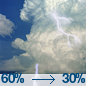
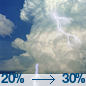
wire: 2026-09-05 RSA-0905-WIRE-48 + first sports/weather siblings

Changed region(s): [[0.0, 0.8605, 0.1163, 0.9767]]

diff --git a/wire.html b/wire.html
@@ -12,8 +12,8 @@
   <meta property="og:description" content="National, global, and tech briefing for citizens and pastors. Civic week lives on RESOLUTE Local. Sports and weather have their own pages.">
   <meta property="og:type" content="website">
   <meta property="og:url" content="https://usmcmin.com/wire.html">
-  <meta property="og:image" content="https://usmcmin.com/assets/og/wire-dvids-9904942-lincoln-thailand-1200x630.jpg">
-  <meta name="twitter:image" content="https://usmcmin.com/assets/og/wire-dvids-9904942-lincoln-thailand-1200x630.jpg">
+  <meta property="og:image" content="https://usmcmin.com/assets/og/wire-dvids-7275187-patriot-palau-1200x630.jpg">
+  <meta name="twitter:image" content="https://usmcmin.com/assets/og/wire-dvids-7275187-patriot-palau-1200x630.jpg">
   <meta property="og:image:width" content="1200">
   <meta property="og:image:height" content="630">
   <meta name="twitter:image:width" content="1200">
@@ -129,18 +129,18 @@
     <header class="mast" id="top">
       <h1>RESOLUTE <em>Wire</em></h1>
       <p class="dek">National, global, and tech briefing for citizens and pastors. Civic week lives on RESOLUTE Local. Sports and weather have their own pages.</p>
-      <div class="meta">Friday, September 4, 2026 · PM edition · Rush Sullivan · RSA-0904-WIRE-47</div>
+      <div class="meta">Saturday, September 5, 2026 · AM edition · Rush Sullivan · RSA-0905-WIRE-48</div>
     </header>
     <article class="hero">
       <div class="hero-media">
-        <img src="assets/wire/dvids-9904942-lincoln-thailand-1000w.jpg" alt="">
-        <div class="hero-credit">U.S. Navy photo by Mass Communication Specialist Seaman Gage Thomas · DVIDS 9904942 · Public domain · USS Abraham Lincoln (CVN 72) arrives in Laem Chabang, Thailand, Sept. 2, 2026.</div>
+        <img src="assets/wire/dvids-7275187-patriot-palau-1000w.jpg" alt="">
+        <div class="hero-credit">U.S. Army photo by Maj. Nicholas Chopp · DVIDS 7275187 · Public domain · A PAC-2 Patriot interceptor launches during a live-fire exercise in Palau, June 15, 2022.</div>
       </div>
       <div class="hero-body">
-        <span class="chip">USNI News</span>
-        <h2><a href="https://news.usni.org/2026/09/04/usni-news-western-pacific-pulse-sept-4-2026" target="_blank" rel="noopener">USNI: Abraham Lincoln makes its first full port stop of the deployment, in Thailand</a></h2>
-        <p class="insight">USNI News Western Pacific Pulse, Friday: USS Abraham Lincoln (CVN-72) pulled into Laem Chabang, Thailand, on Wednesday, its first full port visit since the deployment began. Navy still of the arrival is dated Sept. 2.</p>
-        <div class="src">USNI News · <a href="https://news.usni.org/2026/09/04/usni-news-western-pacific-pulse-sept-4-2026" target="_blank" rel="noopener">Read source →</a></div>
+        <span class="chip">Defense News</span>
+        <h2><a href="https://www.defensenews.com/news/pentagon-congress/2026/09/05/ukraine-asks-eu-to-fund-first-pac-3-patriot-buy/" target="_blank" rel="noopener">Defense News: Ukraine asks the EU to fund its first PAC-3 Patriot buy</a></h2>
+        <p class="insight">Defense News, Saturday: Kyiv asked to tap a €90 billion EU support loan for PAC-3 interceptors for Patriot batteries — the first formal request to use that loan for the U.S.-made missiles. Because PAC-3s are built in the United States, the purchase needs an exemption from the loan’s non-EU content cap. Commission President Ursula von der Leyen said the review was moving and that EU representatives were due to decide Monday.</p>
+        <div class="src">Defense News · <a href="https://www.defensenews.com/news/pentagon-congress/2026/09/05/ukraine-asks-eu-to-fund-first-pac-3-patriot-buy/" target="_blank" rel="noopener">Read source →</a></div>
       </div>
     </article>
     <section class="rails" aria-label="Channel rails">
@@ -156,16 +156,16 @@
         </article>
         <article class="item no-media">
           <div>
-            <h4><a href="https://www.defensenews.com/global/europe/2026/09/04/us-to-seek-back-payment-from-europe-for-ukraine-aid-trump-says/" target="_blank" rel="noopener">Defense News: Trump says Europe should repay U.S. Ukraine aid</a></h4>
-            <p>Defense News, Friday: President Trump said Thursday he would ask European nations to pay back the United States for military aid and munitions previously sent to Ukraine. No repayment schedule has been published.</p>
+            <h4><a href="https://www.defensenews.com/news/your-military/2026/09/04/us-air-force-speeds-reaper-successor-timeline-after-iran-losses/" target="_blank" rel="noopener">Defense News: Air Force speeds a cheaper Reaper successor after Iran losses</a></h4>
+            <p>Defense News, Friday: Lt. Gen. Christopher Niemi said Sept. 3 the Air Force is accelerating a cheaper, more expendable follow-on to the MQ-9A Reaper after combat losses. Officials did not announce a new fielding date. The Massed Modular Aircraft competition is the named path; a fully missionized aircraft is still unpriced.</p>
             <div class="who">Defense News</div>
           </div>
           
         </article>
         <article class="item no-media">
           <div>
-            <h4><a href="https://news.usni.org/2026/09/03/video-navy-marines-interdict-second-suspected-narco-refueling-station" target="_blank" rel="noopener">USNI: San Antonio sailors and Marines destroy a second suspected narco refueler</a></h4>
-            <p>USNI News, Thursday: sailors and Marines from USS San Antonio (LPD-17) interdicted and destroyed a second suspected narco logistics vessel in the Eastern Pacific on Wednesday, working with Ecuador as part of Joint Task Force Western Hemisphere.</p>
+            <h4><a href="https://news.usni.org/2026/09/03/chinese-destroyer-involved-in-fatal-collision-returns-to-south-china-sea" target="_blank" rel="noopener">USNI: Chinese destroyer in last summer’s fatal Scarborough collision is back at sea</a></h4>
+            <p>USNI News, Thursday: Type 052D destroyer Guilin (164), involved in a fatal collision with a China Coast Guard cutter at Scarborough Shoal last summer, has returned to frontline service in the South China Sea, according to recent military reports.</p>
             <div class="who">USNI News</div>
           </div>
           
@@ -184,7 +184,7 @@
         <article class="item no-media">
           <div>
             <h4><a href="https://apnews.com/article/justice-department-new-york-times-openai-copyright-dbb22e8e02c660ee5a8644915dec39a4" target="_blank" rel="noopener">AP: Justice Department backs OpenAI against the New York Times on training data</a></h4>
-            <p>Associated Press: the Trump administration told a court it backs OpenAI’s argument that training on news articles is fair use in the Times copyright case. A brief is a legal position, not a ruling.</p>
+            <p>Associated Press: the Trump administration told a court it backs OpenAI’s argument that training on news articles is fair use in the Times copyright case. The brief is a legal position, not a ruling.</p>
             <div class="who">Associated Press</div>
           </div>
           
@@ -194,16 +194,16 @@
         <h3>Culture</h3>
         <article class="item no-media">
           <div>
-            <h4><a href="https://lawliberty.org/the-benefits-of-bad-publicity/" target="_blank" rel="noopener">Law &amp; Liberty: bad publicity can find the quiet neighbors</a></h4>
-            <p>Law &amp; Liberty, Friday: “The Benefits of Bad Publicity” argues that unwanted attention can help people find like-minded neighbors who are quietly reclaiming culture. The piece is cultural argument, not a statute.</p>
+            <h4><a href="https://lawliberty.org/abusing-aristotle/" target="_blank" rel="noopener">Law &amp; Liberty: the New Right’s “common good” dresses policy goals in Aristotle</a></h4>
+            <p>Law &amp; Liberty, Thursday: “Abusing Aristotle” argues that New Right talk of “the common good” often baptizes contestable industrial-policy aims so they no longer have to survive ordinary cost-benefit argument. Cultural essay, not a statute.</p>
             <div class="who">Law &amp; Liberty</div>
           </div>
           
         </article>
         <article class="item no-media">
           <div>
-            <h4><a href="https://lawliberty.org/reagan-and-gorbachev-on-the-brink/" target="_blank" rel="noopener">Law &amp; Liberty: at Reykjavik, Reagan paired principle with hard bargaining</a></h4>
-            <p>Law &amp; Liberty, Friday: “Reagan and Gorbachev on the Brink” argues that at Reykjavik Reagan paired principle with strategy and hard-nosed negotiations. History essay, not a live arms-control announcement.</p>
+            <h4><a href="https://lawliberty.org/the-benevolent-smokescreen/" target="_blank" rel="noopener">Law &amp; Liberty: a predatory state hides behind welfare talk</a></h4>
+            <p>Law &amp; Liberty, Thursday: “The Benevolent Smokescreen” argues that extractive governments use social-welfare language to conceal control of production, education, and rents. The piece is political-economy argument, not a U.S. bill.</p>
             <div class="who">Law &amp; Liberty</div>
           </div>
           
@@ -220,7 +220,7 @@
     </section>
     <section class="watch">
       <h3>Watch</h3>
-      <ul><li><a href="https://www.cnbc.com/2026/09/03/anthropic-distillation-battle-turns-to-dark-web-china-concerns-swell.html" target="_blank" rel="noopener">Anthropic says illicit Claude distillation is now an organized market</a> </li></ul>
+      <ul><li><a href="https://www.heritage.org/technology/commentary/china-working-against-us-data-centers" target="_blank" rel="noopener">Heritage: is China working against U.S. data centers?</a> </li></ul>
     </section>
     <section class="dock">
       <a href="sports.html"><div class="k">Texas desk</div><div class="t">Sports</div><div class="d">Texans, Astros, Rockets — character and the score.</div></a>

diff --git a/weather.html b/weather.html
@@ -125,7 +125,7 @@
     <header class="mast" id="top">
       <h1>RESOLUTE <em>Weather</em></h1>
       <p class="dek">Fredericksburg, Virginia — National Weather Service. Readiness, not climate talk.</p>
-      <div class="meta">Friday, September 4, 2026 · PM edition</div>
+      <div class="meta">Saturday, September 5, 2026 · AM edition</div>
     </header>
     <article class="hero">
       <div class="hero-media">
@@ -134,15 +134,15 @@
       </div>
       <div class="hero-body">
         <span class="chip">NWS / Readiness</span>
-        <h2>Severe Thunderstorm Watch until 9 p.m.</h2>
-        <p class="insight">NWS has a severe thunderstorm watch on the Fredericksburg point until 9 p.m. ET. This afternoon chance of storms, high 94, heat index as high as 105. Tonight 71 with a storm chance. Have a plan for power and travel through evening.</p>
-        <div class="src">Alerts: Severe Thunderstorm Watch until 9 p.m. ET. · <a href="https://forecast.weather.gov/MapClick.php?lat=38.3032&amp;lon=-77.4605" target="_blank" rel="noopener">NWS forecast →</a></div>
-        <ul class="actions"><li>Watch until 9 p.m. ET</li><li>This afternoon: chance of storms, 94</li><li>Tonight 71 with a storm chance</li></ul>
+        <h2>No active watches. Storm chance today, then drier Sunday.</h2>
+        <p class="insight">NWS has no active watches or warnings on the Fredericksburg point. Today: slight chance of storms, high 85, 30 percent rain. Tonight 66 with a storm chance before 1 a.m. Sunday mostly sunny, 83. Have a plan for brief afternoon storms, then a clearer Labor Day weekend start.</p>
+        <div class="src">Alerts: No watch or warning is up. · <a href="https://forecast.weather.gov/MapClick.php?lat=38.3032&amp;lon=-77.4605" target="_blank" rel="noopener">NWS forecast →</a></div>
+        <ul class="actions"><li>No active watches or warnings</li><li>Today: slight chance of storms, 85</li><li>Tonight 66; Sunday mostly sunny, 83</li></ul>
       </div>
     </article>
     <section class="watch">
       <h3>Forecast</h3>
-      <div class="period"><img class="period-icon" src="assets/weather/nws-afternoon-tsra.png" alt=""><div><strong>This Afternoon</strong><p class="insight">A chance of showers and thunderstorms. Mostly cloudy, with a high near 94. Heat index values as high as 105. Chance of precipitation is 60%.</p></div></div><div class="period"><img class="period-icon" src="assets/weather/nws-tonight-tsra.png" alt=""><div><strong>Tonight</strong><p class="insight">A chance of showers and thunderstorms. Partly cloudy, with a low around 71. Chance of precipitation is 60%.</p></div></div><div class="period"><img class="period-icon" src="assets/weather/nws-saturday-rain.png" alt=""><div><strong>Saturday</strong><p class="insight">A chance of rain showers, then a slight chance of showers and thunderstorms. High near 87. Chance of precipitation is 30%.</p></div></div><div class="period"><img class="period-icon" src="assets/weather/nws-saturday-night-tsra.png" alt=""><div><strong>Saturday Night</strong><p class="insight">A chance of showers and thunderstorms before 4 a.m. Mostly cloudy, with a low around 66. Chance of precipitation is 50%.</p></div></div>
+      <div class="period"><img class="period-icon" src="assets/weather/nws-today-tsra-sct.png" alt=""><div><strong>Today</strong><p class="insight">A slight chance of showers and thunderstorms between 11am and 1pm, then a chance of showers and thunderstorms. Mostly cloudy, with a high near 85. North wind 2 to 7 mph. Chance of precipitation is 30%. New rainfall amounts less than a tenth of an inch possible.</p></div></div><div class="period"><img class="period-icon" src="assets/weather/nws-tonight-tsra-sct.png" alt=""><div><strong>Tonight</strong><p class="insight">A chance of showers and thunderstorms before 1am. Mostly cloudy, with a low around 66. East wind 1 to 6 mph. Chance of precipitation is 30%. New rainfall amounts between a tenth and quarter of an inch possible.</p></div></div><div class="period"><img class="period-icon" src="assets/weather/nws-sunday-sct.png" alt=""><div><strong>Sunday</strong><p class="insight">Mostly sunny, with a high near 83. Northeast wind 3 to 7 mph.</p></div></div><div class="period"><img class="period-icon" src="assets/weather/nws-sunday-night-sct.png" alt=""><div><strong>Sunday Night</strong><p class="insight">Partly cloudy, with a low around 60. Northeast wind 0 to 6 mph.</p></div></div>
       
     </section>
     <section class="dock">

diff --git a/sports.html b/sports.html
@@ -125,7 +125,7 @@
     <header class="mast" id="top">
       <h1>RESOLUTE <em>Sports</em></h1>
       <p class="dek">Texas desk — Texans, Astros, Rockets. Character and the score, not celebrity.</p>
-      <div class="meta">Friday, September 4, 2026 · PM edition</div>
+      <div class="meta">Saturday, September 5, 2026 · AM edition</div>
     </header>
     <article class="hero">
       <div class="hero-media">
@@ -151,8 +151,8 @@
         </article>
         <article class="item">
           <div>
-            <h4><a href="https://www.mlb.com/gameday/d-backs-vs-astros/2026/09/04/824146/preview" target="_blank" rel="noopener">Astros host Arizona tonight at Daikin Park</a></h4>
-            <p>MLB.com: Diamondbacks at Astros, Friday at 8:10 p.m. ET at Daikin Park. Club site for the live score.</p>
+            <h4><a href="https://www.mlb.com/gameday/d-backs-vs-astros/2026/09/05/824145/preview" target="_blank" rel="noopener">Astros host Arizona tonight at Daikin Park</a></h4>
+            <p>MLB.com: Diamondbacks at Astros, Saturday at 7:15 p.m. ET at Daikin Park, game two of the series. Club site for the live score.</p>
             <div class="who">MLB.com / Houston Astros</div>
           </div>
           <div class="thumb"><img src="assets/sports/daikin-minute-maid-2010.jpg" alt=""></div>
